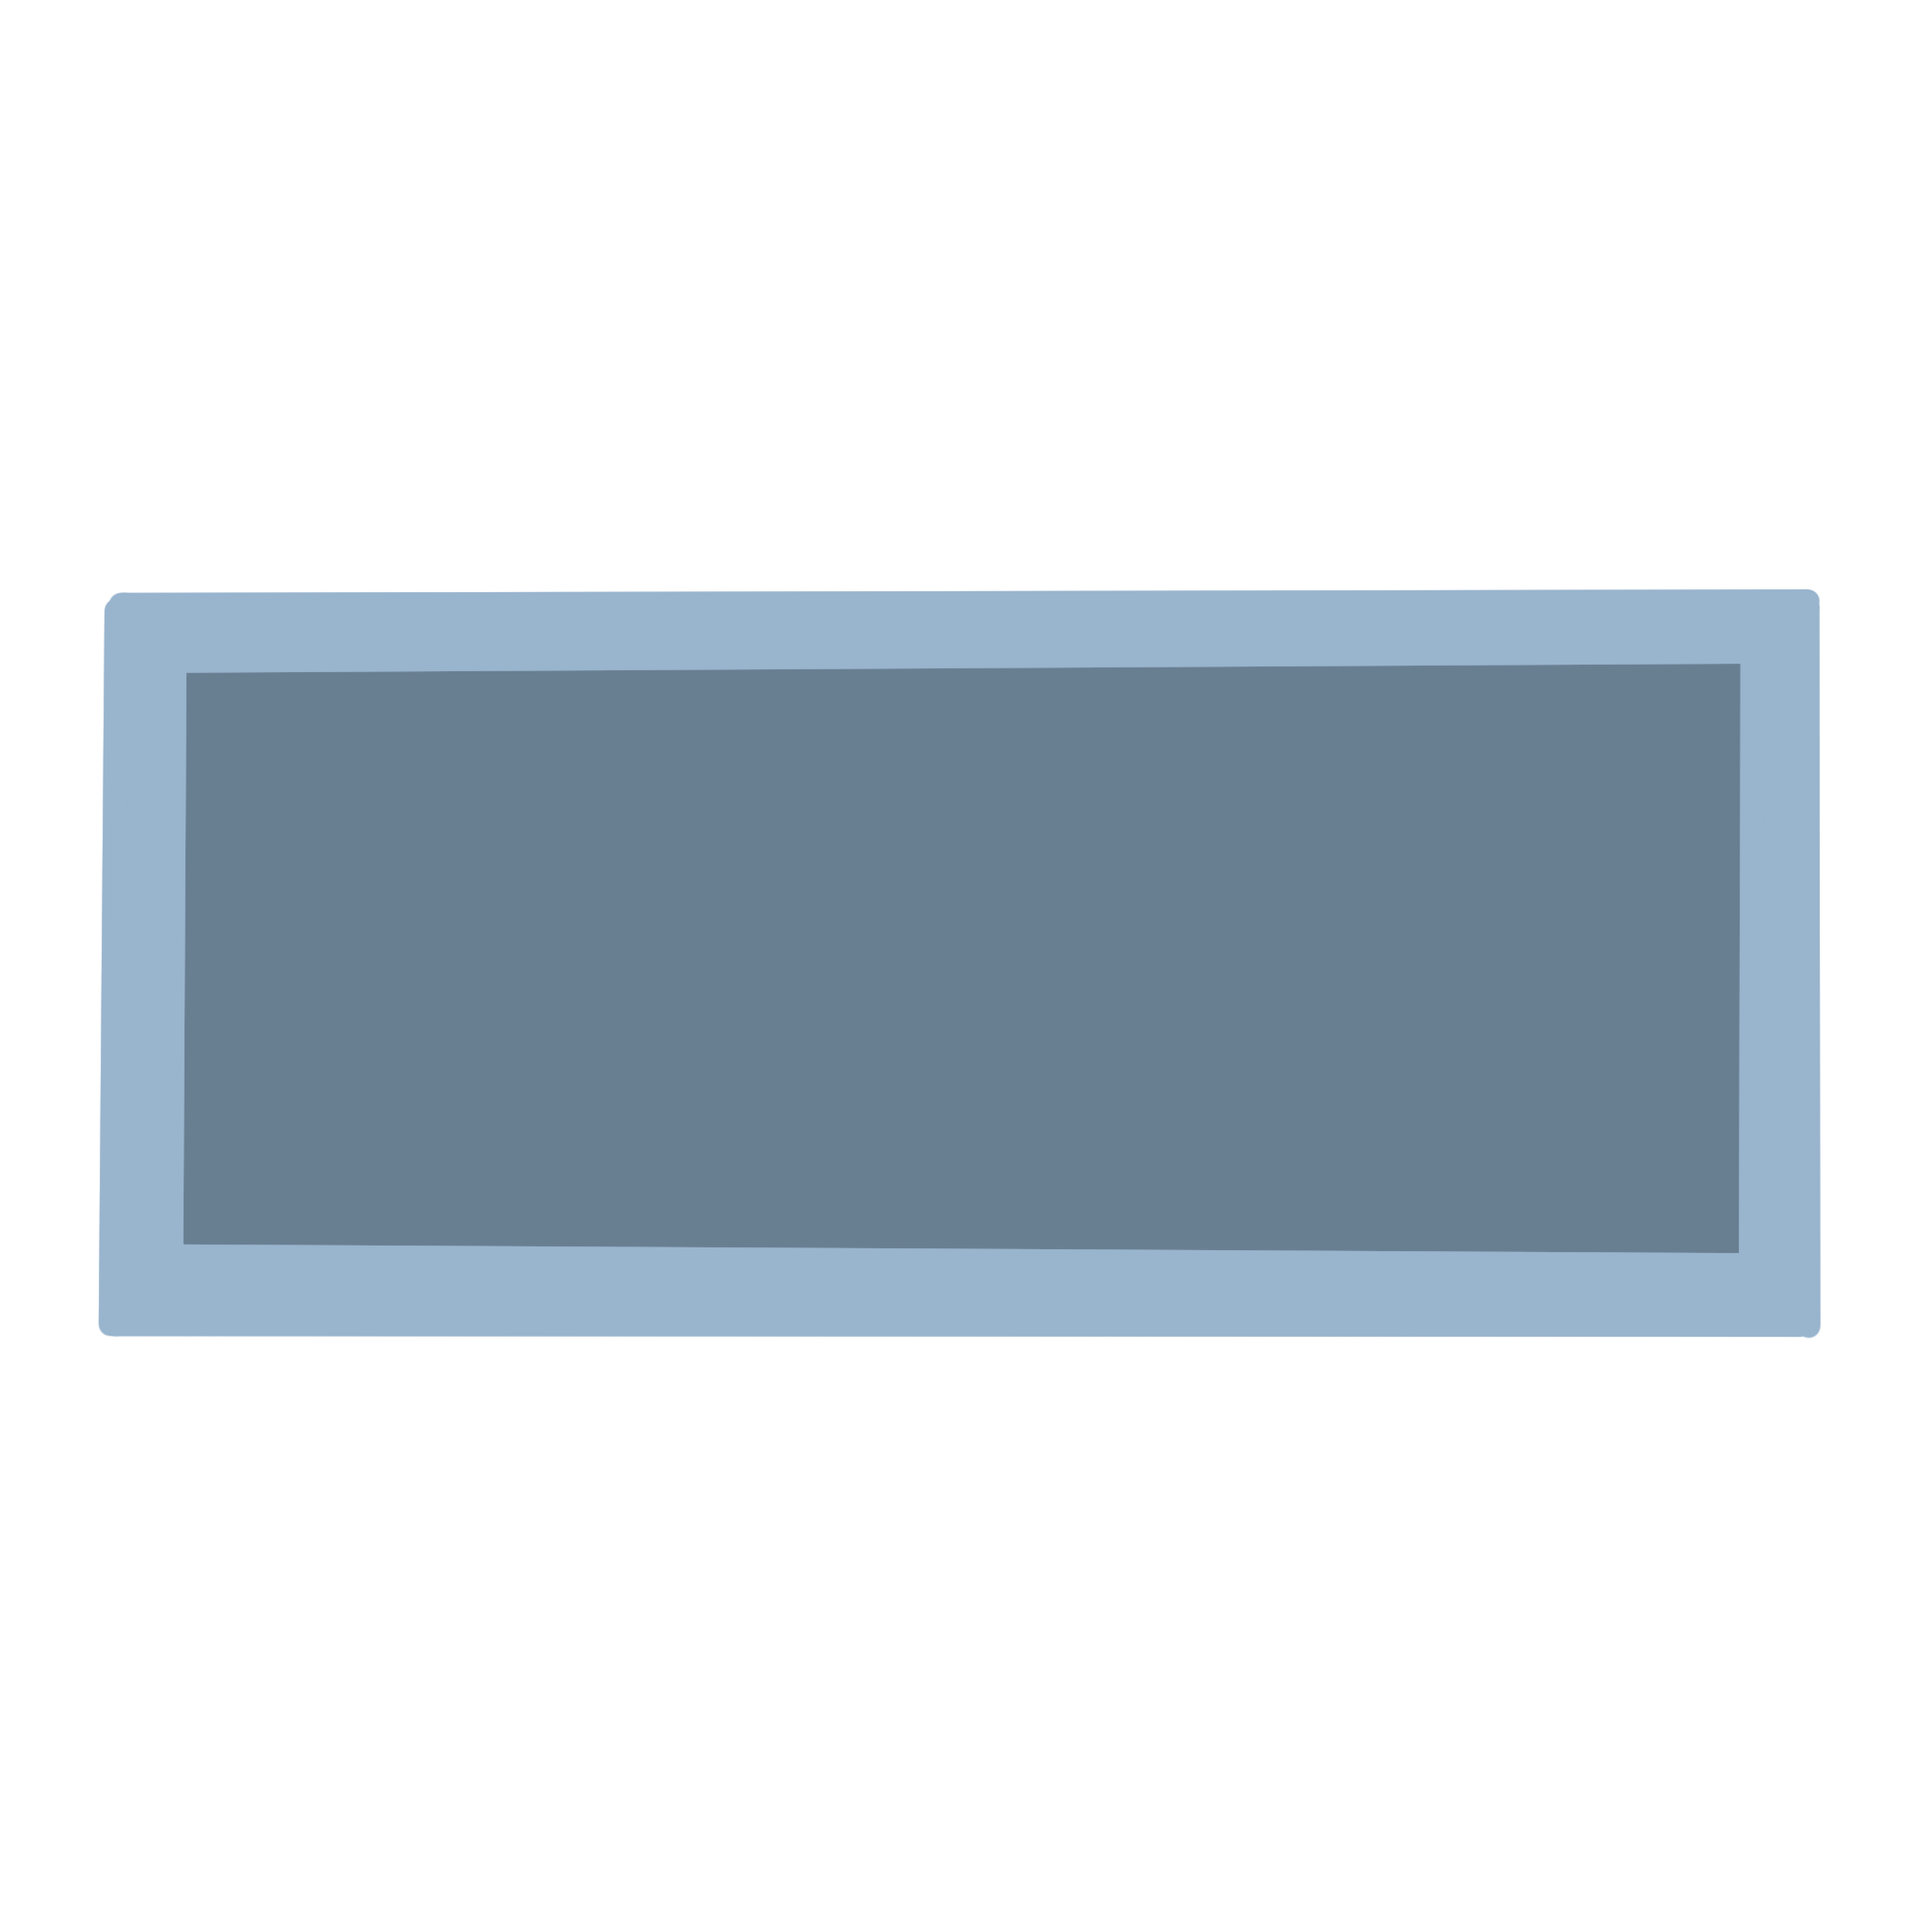
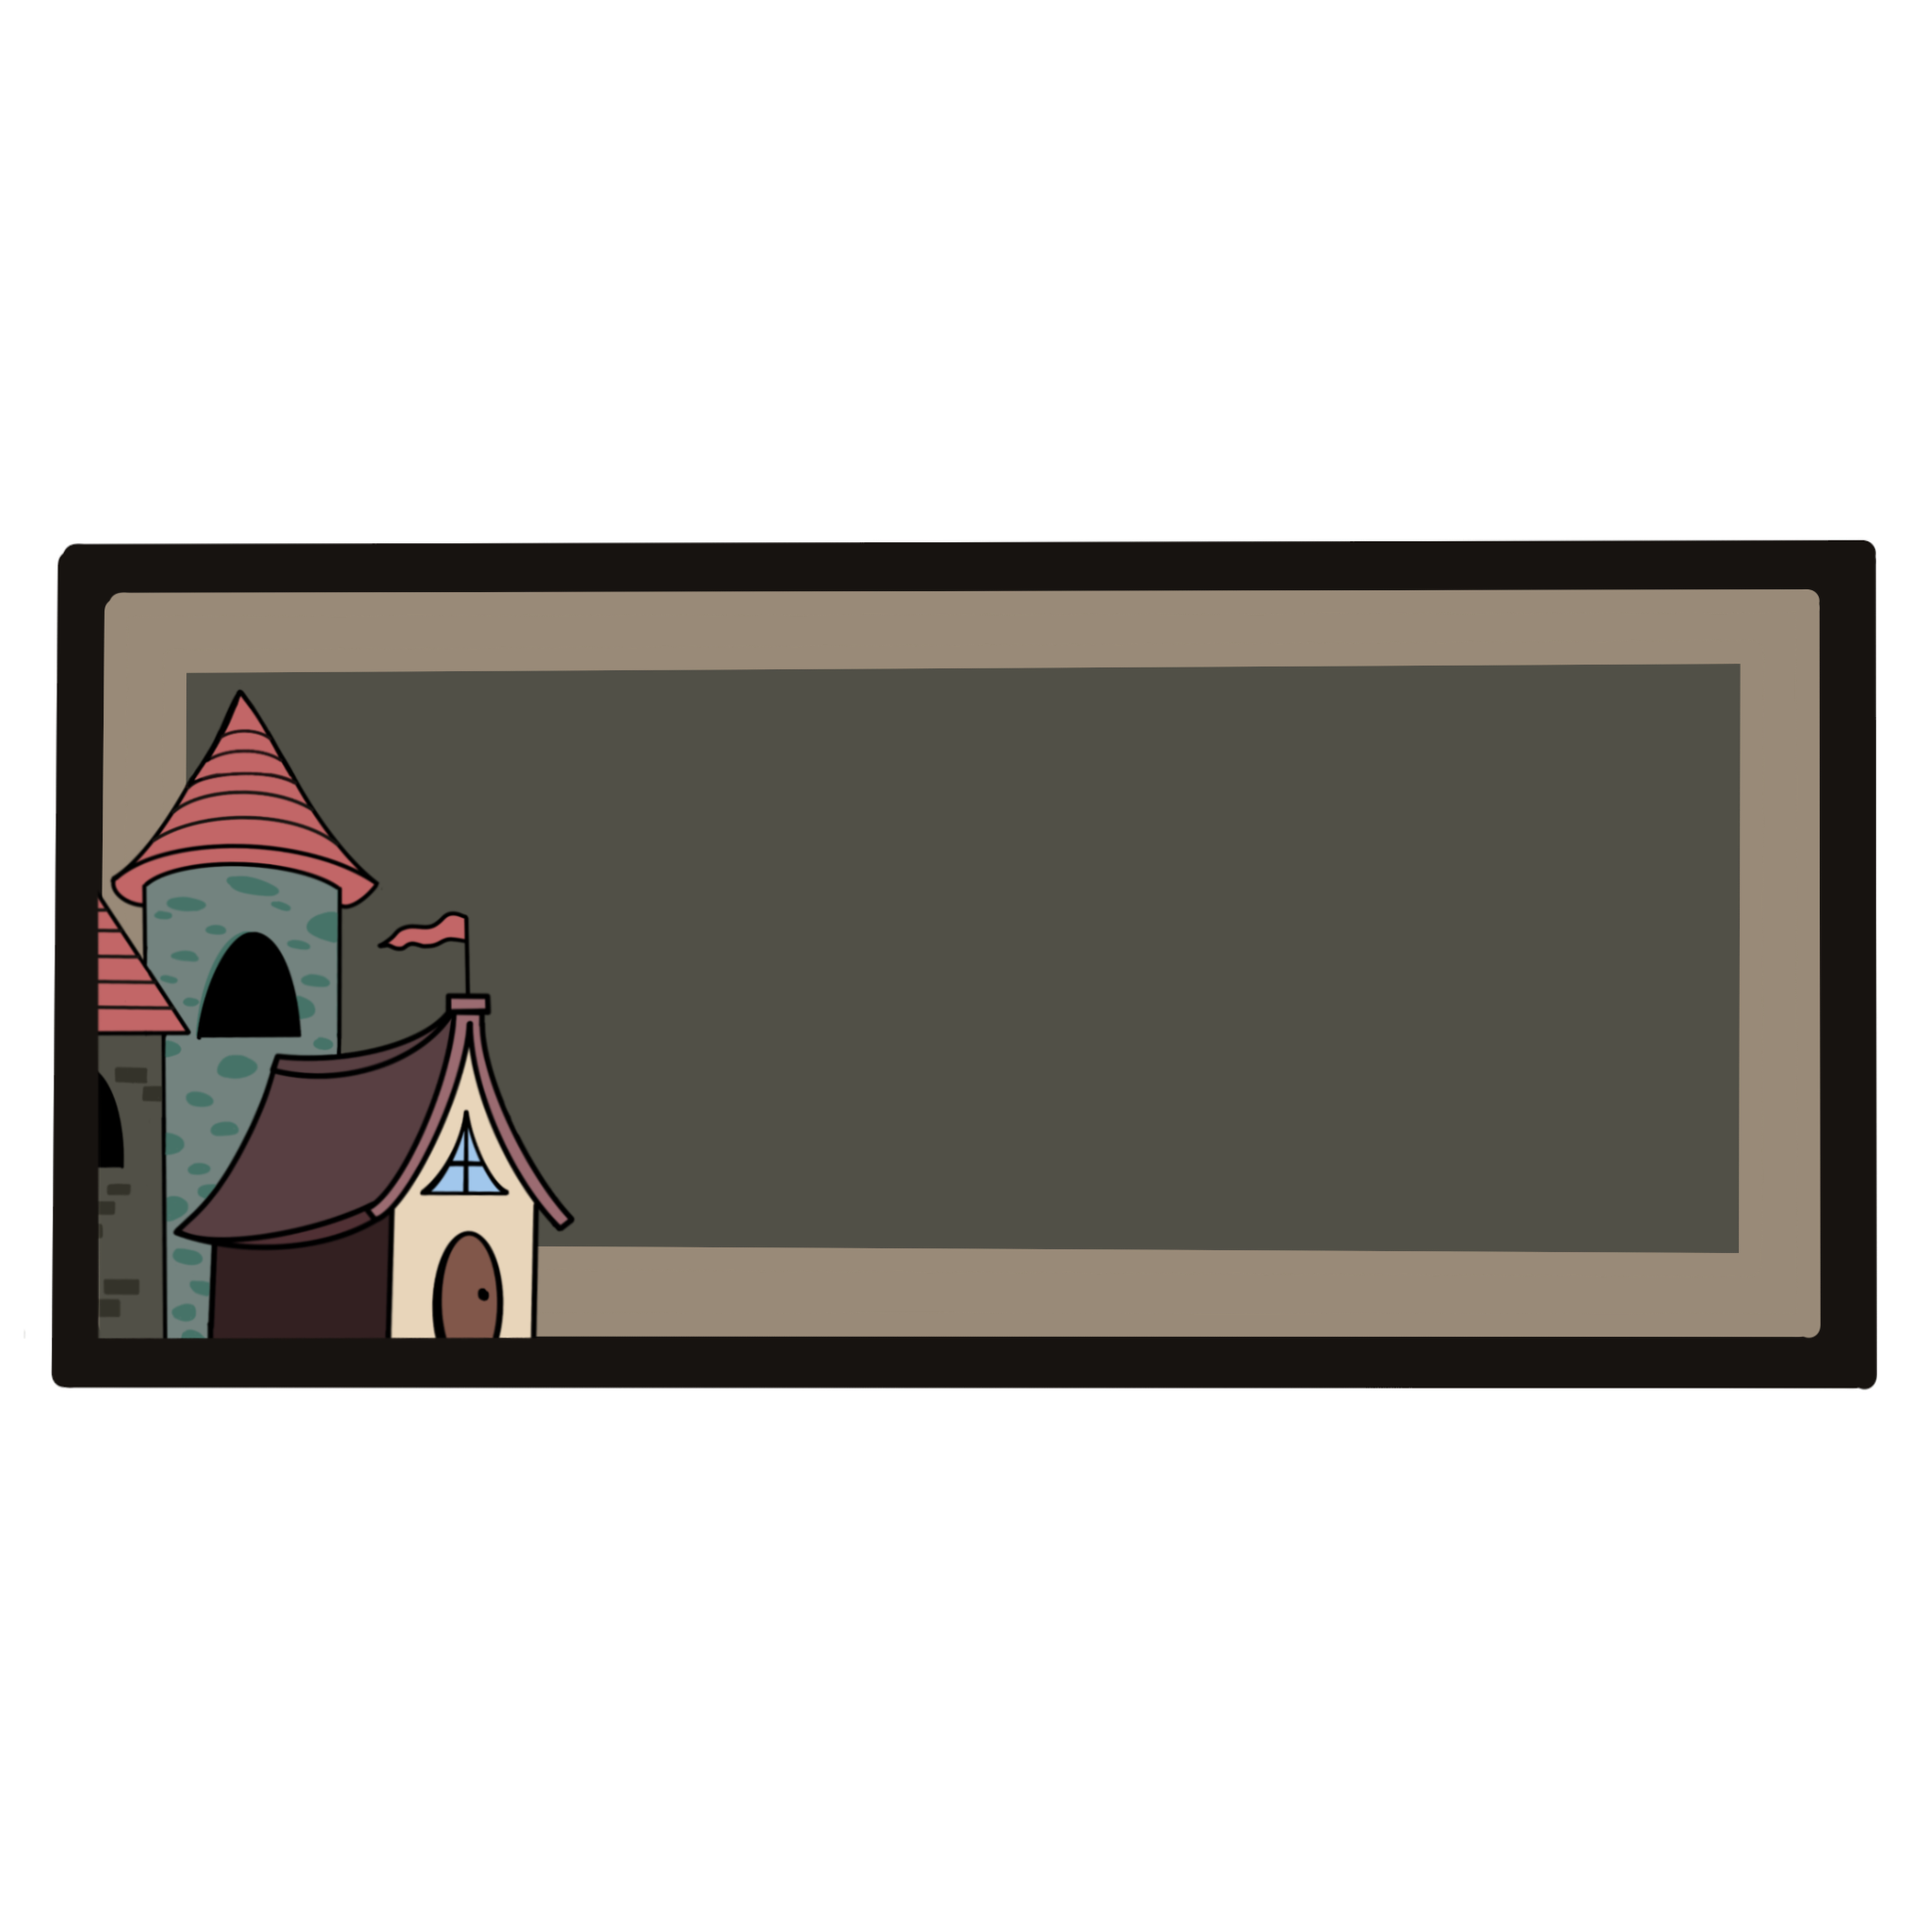
第十六次(樣式添加)

diff --git a/src/main/resources/static/css/styles.css b/src/main/resources/static/css/styles.css
@@ -1,3 +1,9 @@
+* {
+    box-sizing: border-box; 
+    margin: 0;
+    padding: 0;
+}
+
 body {
     font-family: 'Noto Sans TC', sans-serif; /* 使用 Noto Sans TC 作為中文字體 */
     background-color: #604646; /* 深灰背景 */
@@ -7,10 +13,6 @@ body {
     padding: 0;
 }
 
-h1 {
-    font-size: 80px;
-    margin: 50px 0px 30px 0px; 
-}
 .container {
     position: relative;
     z-index: 100; /* 確保按鈕區塊在最上層 */
@@ -24,40 +26,52 @@ h1 {
     z-index: 10;
 }
 
-/* 設定按鈕樣式 */
+
+/* 統一按鈕樣式 */
 .btn {
     position: relative;
     display: flex;
     align-items: center;
     justify-content: center;
-    width: 300px;
-    height: 120px;
-    background-image: url('/images/butten2.png');
+    width: 250px;
+    height: 100px;
     background-size: 100% 210%;
     background-position: center;
     text-decoration: none;
-    color: white; /* 讓文字顯示 */
+    color: white;
     font-size: 30px;
     font-weight: bold;
     text-align: center;
     border: none;
     border-radius: 10px;
-    margin: 20px 0;
+    margin: 10px 0;
     transition: 0.3s;
     z-index: 101;
 }
 
 .btn span {
-    position: absolute; /* 讓文字疊加在背景圖片上 */
+    position: absolute;
 }
 
+/* 針對不同按鈕設定不同的背景 */
+.btn1 {
+    background-image: url('/images/butten1.png');
+}
 
-/* 滑鼠懸停時的效果 */
+.btn2 {
+    background-image: url('/images/butten2.png');
+}
+
+.btn3 {
+    background-image: url('/images/butten3.png');
+}
+
+/* 滑鼠懸停效果 */
 .btn:hover {
-    background-color: transparent; /* 當滑鼠懸停時背景色變暗 */
-    
+    background-color: transparent; 
     transform: scale(1.1);
 }
+
 
 #background3 {
     position: fixed;
@@ -82,6 +96,13 @@ h1 {
     object-fit: contain;
     transform: translateY(0); /* 確保圖片沒有額外偏移 */
     z-index: -1;
+}
+#title {
+    width: 600px; /* 根據需求調整標題圖片大小 */
+    max-width: 100%; 
+    height: auto;
+    display: block;
+    margin: -30px auto ; /* 負的 margin-top 讓圖片往上移 */
 }
 
 html, body {

diff --git a/src/main/resources/templates/index.html b/src/main/resources/templates/index.html
@@ -9,17 +9,16 @@
 <body>
     
         <div class="container">
-            <h1>末日地下城對抗</h1>
+            <img src="/images/title3.png" alt="末日地下城對抗" id="title">
             <div class="button-container">
-                <a href="/game" class="btn"><span>遊戲開始</span></a>
-                <a href="/about" class="btn"><span>遊戲介紹</span></a>
-                <a href="/team" class="btn"><span>開發團隊</span></a>
+                <a href="/game" class="btn btn1"><span>遊戲開始</span></a>
+                <a href="/about" class="btn btn2"><span>遊戲介紹</span></a>
+                <a href="/team" class="btn btn3"><span>開發團隊</span></a>
             </div>
         </div>
-            <img src="/images/background1.png" alt="background1" id="background1">
-            
-        
- 
     
+        <img src="/images/background1.png" alt="background1" id="background1">
+        <img src="/images/background3.png" alt="background3" id="background3">
+        
 </body>
 </html>

diff --git a/src/main/resources/static/css/game.css b/src/main/resources/static/css/game.css
@@ -32,8 +32,8 @@ h2{
 }
 p{
     
-    font-size: 30px;
-    margin-top: 30px;
+    font-size: 15px;
+    margin-top: 10px;
     margin-bottom: 5px;
 }
 /* 輸入區塊 */
@@ -88,7 +88,7 @@ button {
 }
 
 button:hover {
-    background-color: transparent;
+    background-color: #c05d5d;
 }
 
 /* 讓返回首頁按鈕置中 */

diff --git a/src/main/resources/templates/game.html b/src/main/resources/templates/game.html
@@ -3,7 +3,7 @@
 <head>
     <meta charset="UTF-8">
     <title>遊戲登入</title>
-    <link rel="stylesheet" href="/css/styles.css">
+    <link rel="stylesheet" href="/css/game.css">
     <script src="/js/game.js" defer></script>
 </head>
 <body>
